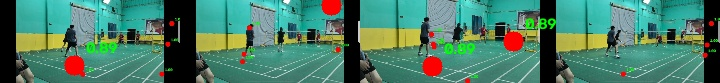
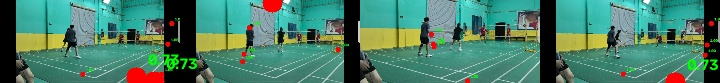
v2.27.2: 场地颜色定位+双重检测（用户方案落地）
- 颜色域扩展：绿 ∪ 蓝（hue 55~130 / 165~260）——蓝色场地此前必失败
- 上半部同色干扰抑制：y<0.35H 颜色区域内白线占比<0.5% → 剔除（蓝布/绿布背景）
- 下半部主色验证：y≥0.5H 颜色占比<5% → 颜色约束降级（木地板/深色场地兜底）
- 白线提取限制在场地色膨胀区域内（先定位颜色，再识别白线）
- 宿主验证：8/8 保持；蓝色场地合成图（含顶部蓝布）识别 84%

diff --git a/app/src/main/java/com/badmintonspeed/app/analysis/CourtRegressor.kt b/app/src/main/java/com/badmintonspeed/app/analysis/CourtRegressor.kt
@@ -284,19 +284,63 @@ object CourtRegressor {
         val mFloor = BooleanArray(W * H)
         val mLoc = BooleanArray(W * H)
         val greenMask = BooleanArray(W * H)
+        val blueMask = BooleanArray(W * H)
         for (i in gray.indices) {
             val brighter = gray[i] - floorVal > 40
             mFloor[i] = brighter && sat[i] < 70
             val isGreen = hue[i] in 55..130 && sat[i] >= 60
             greenMask[i] = isGreen
+            // v2.27.2 颜色域扩展：蓝色场地（hue 165~260 & sat≥50）此前不在此区间 → 蓝色场地必失败
+            blueMask[i] = hue[i] in 165..260 && sat[i] >= 50
         }
         // 局部对比：gray - 31×31 均值 > 25（积分图加速）
         val mean = boxMean(gray, W, H, 31)
         for (i in gray.indices) {
             mLoc[i] = gray[i] - mean[i] > 25 && sat[i] < 80
         }
-        // 绿色地板膨胀 7px（白线本身非绿色，其两侧是）
-        val floorMask = dilate(greenMask, W, H, 7)
+        // ---- v2.27.2 颜色区域上下定位 + 白线双重检测（用户方案）----
+        // ① 上半部同色干扰抑制：y < 0.35H 的颜色区域内，白线样像素占比 < 0.5% → 该色块是布/背景，剔除
+        val upY = (H * 0.35f).toInt()
+        var upColor = 0; var upWhite = 0
+        for (y in 0 until upY) {
+            var base = y * W
+            for (x in 0 until W) {
+                val i = base + x
+                if (greenMask[i] || blueMask[i]) {
+                    upColor++
+                    if (mFloor[i] || mLoc[i]) upWhite++
+                }
+            }
+        }
+        if (upColor > 0 && upWhite.toFloat() / upColor < 0.005f) {
+            for (y in 0 until upY) {
+                var base = y * W
+                for (x in 0 until W) { val i = base + x; greenMask[i] = false; blueMask[i] = false }
+            }
+        }
+        // ② 下半部主色验证：y ≥ 0.5H 颜色占比 < 5% → 该颜色不是场地（整面蓝墙/绿墙）→ 颜色约束降级
+        val lowY = (H * 0.5f).toInt()
+        var lowerColor = 0; var lowerTotal = 0
+        for (y in lowY until H) {
+            var base = y * W
+            for (x in 0 until W) {
+                val i = base + x
+                if (greenMask[i] || blueMask[i]) lowerColor++
+                lowerTotal++
+            }
+        }
+        val colorMask = if (lowerTotal > 0 && lowerColor.toFloat() / lowerTotal < 0.05f) {
+            // 木地板/深色场地兜底：白线不受颜色约束（旧版全图行为）
+            null
+        } else {
+            BooleanArray(W * H) { greenMask[it] || blueMask[it] }
+        }
+        // ③ 颜色掩码膨胀 7px（白线本身非场地色，其两侧是）；无颜色域时用全真掩码
+        val floorMask = if (colorMask == null) {
+            BooleanArray(W * H) { true }
+        } else {
+            dilate(colorMask, W, H, 7)
+        }
         var white = BooleanArray(W * H)
         for (i in white.indices) {
             white[i] = (mFloor[i] || mLoc[i]) && floorMask[i]

diff --git a/app/src/main/java/com/badmintonspeed/app/analysis/VideoAnalyzer.kt b/app/src/main/java/com/badmintonspeed/app/analysis/VideoAnalyzer.kt
@@ -727,7 +727,7 @@ class VideoAnalyzer {
             hits = hits,
             summary = summary,
             analysisDurationMs = System.currentTimeMillis() - startTime,
-            appVersion = "2.27.1",
+            appVersion = "2.27.2",
             frameWidth = w,
             frameHeight = h,
             frameAtMaxSpeed = frameAtMax,

diff --git a/tools/court_diag/diag2.py b/tools/court_diag/diag2.py
@@ -34,14 +34,33 @@ def enhance_white(img):
     m_floor = ((gray0.astype(np.int16) - floorVal > 40) & (sat < 70)).astype(np.uint8) * 255
     mean = cv2.boxFilter(gray0, -1, (31, 31))
     m_loc = ((gray0.astype(np.int16) - mean > 25) & (sat < 80)).astype(np.uint8) * 255
-    # 地板色空间约束：仅"绿色塑胶场地"区域（HSV hue 55~130 且 sat≥60）内才可能有场地线。
-    # 人物白衣/广告白底/黄色护墙/显示屏 hue 不在绿色区间 → 全部排除，根治 B 误检。
+    # 地板色空间约束（v2.27.2）：颜色域扩展为 绿 ∪ 蓝（hue 55~130 / 165~260），
+    # 蓝色场地此前 hue 不在绿色区间 → floorMask 全空 → 蓝色场地必失败。
     hsv = cv2.cvtColor(img, cv2.COLOR_BGR2HSV)
     hh, ss, vv = cv2.split(hsv)
-    greenMask = (((hh >= 55) & (hh <= 130)) & (ss >= 60)).astype(np.uint8) * 255
-    # 膨胀：白线本身不是绿色，但其两侧是
-    floorMask = cv2.dilate(greenMask, np.ones((7, 7), np.uint8))
-    white = cv2.max(m_floor, m_loc)
+    green = ((hh >= 55) & (hh <= 130)) & (ss >= 60)
+    blue = ((hh >= 165) & (hh <= 260)) & (ss >= 50)
+    colorMask = (green | blue).astype(np.uint8) * 255
+    H, W = img.shape[:2]
+    # 上半部同色干扰抑制（用户：场边蓝布/绿布常在上半部且无白线 → 先排掉）：
+    #   y < 0.35H 的颜色区域内，若"白线样像素"（比地板亮≥40 且低饱和）占比 < 0.5% → 该颜色区域剔除
+    whiteBase = cv2.max(m_floor, m_loc)
+    up = colorMask[:int(H * 0.35)] > 0
+    if up.sum() > 0:
+        upWhite = (whiteBase[:int(H * 0.35)] > 0) & up
+        upRatio = upWhite.mean()
+        if upRatio < 0.005:
+            colorMask[:int(H * 0.35)] = 0
+    # 下半部主色验证（用户双重判据：场地色主体在下半部）：
+    #   若下半部颜色占比 < 5% → 该颜色不是场地（整面蓝墙/绿墙）→ 颜色约束降级为不约束（木地板/深色场地兜底）
+    lower = colorMask[int(H * 0.5):] > 0
+    lowerRatio = lower.mean() if lower.size > 0 else 0.0
+    if lowerRatio < 0.05:
+        floorMask = np.full((H, W), 255, np.uint8)
+    else:
+        # 膨胀：白线本身不是场地色，但其两侧是
+        floorMask = cv2.dilate(colorMask, np.ones((7, 7), np.uint8))
+    white = whiteBase
     white = cv2.bitwise_and(white, floorMask)
     # 形态学：闭合断线 + 去孤点
     white = cv2.morphologyEx(white, cv2.MORPH_CLOSE, np.ones((5, 5), np.uint8))
